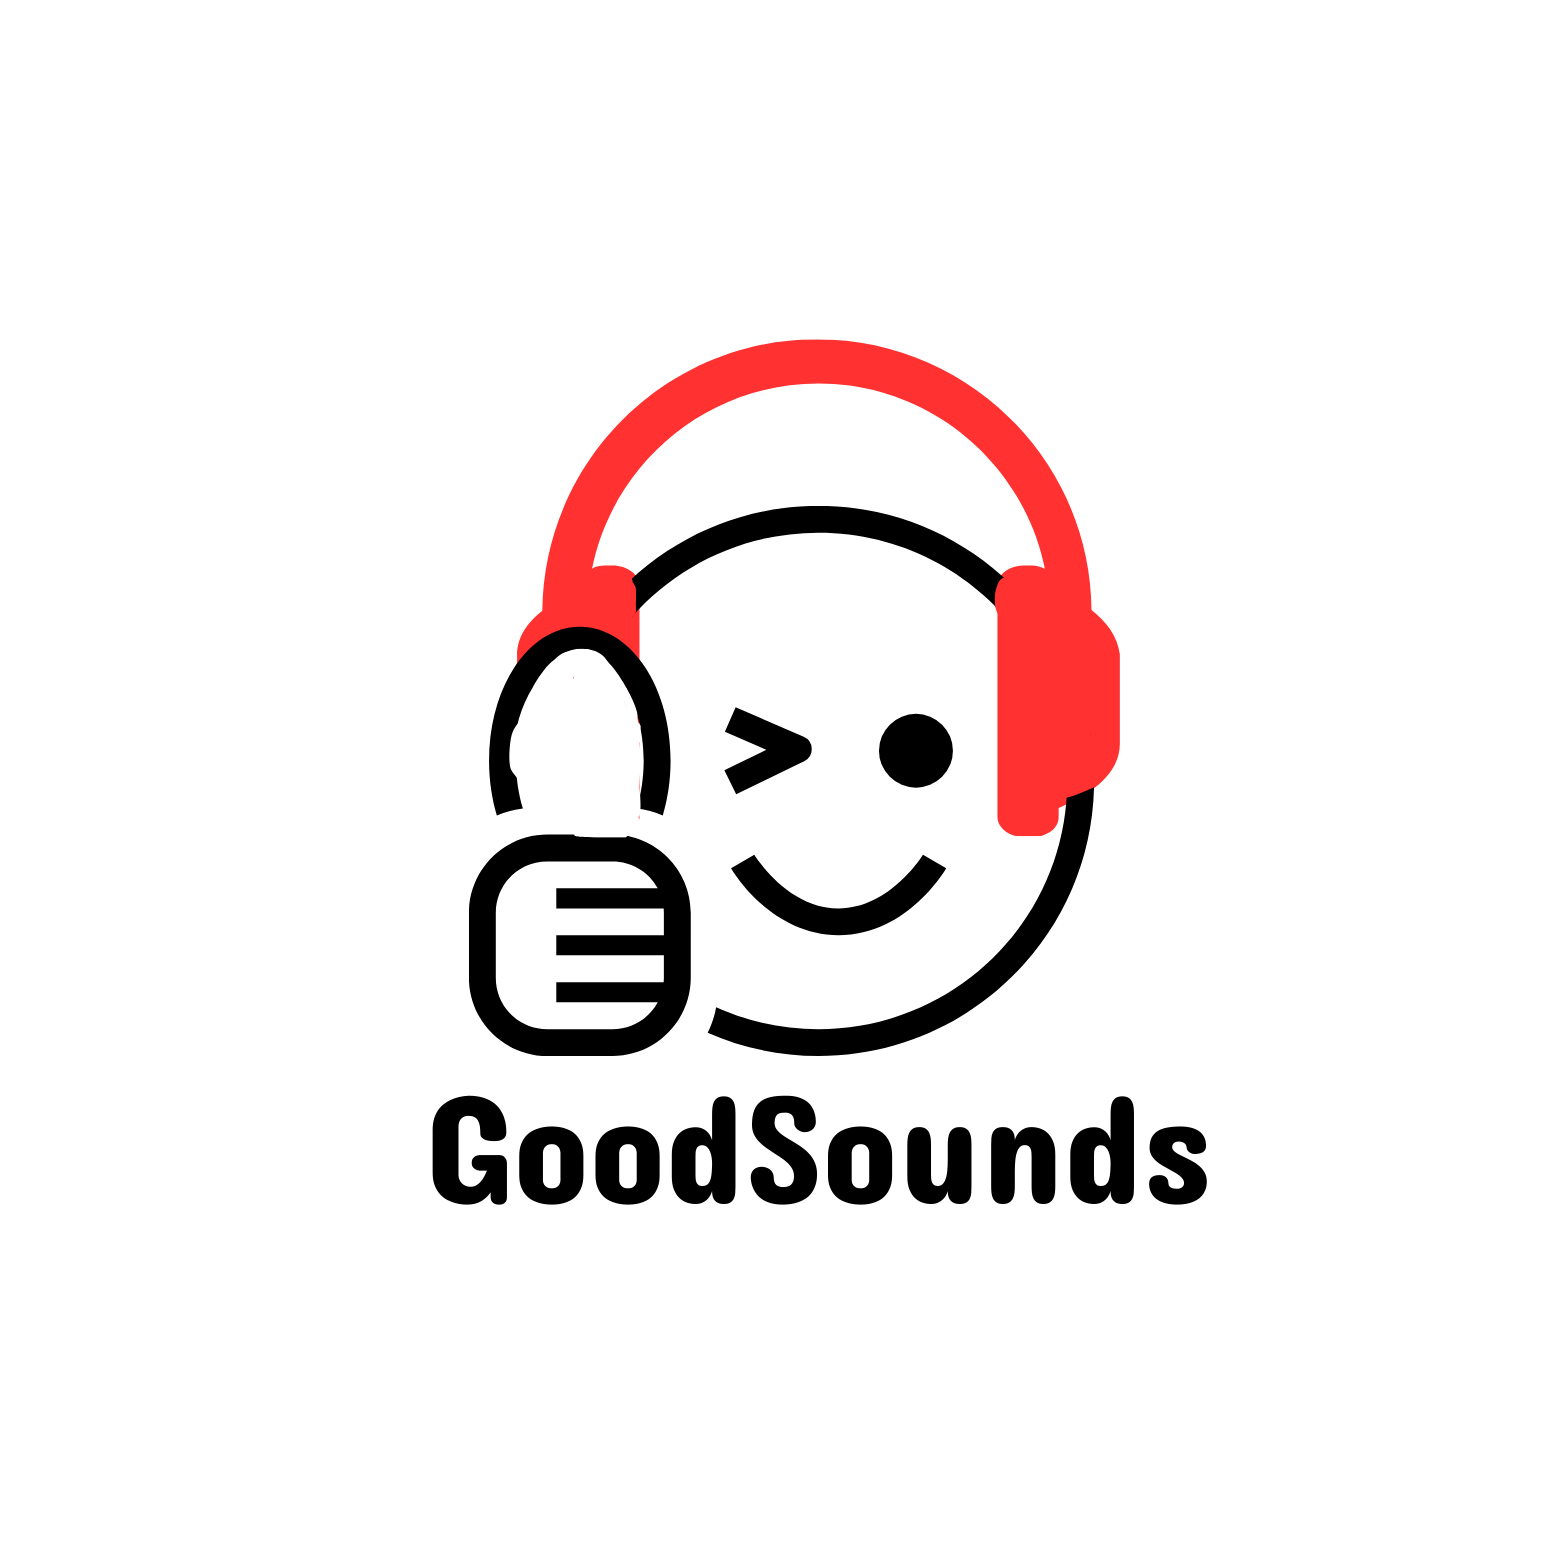
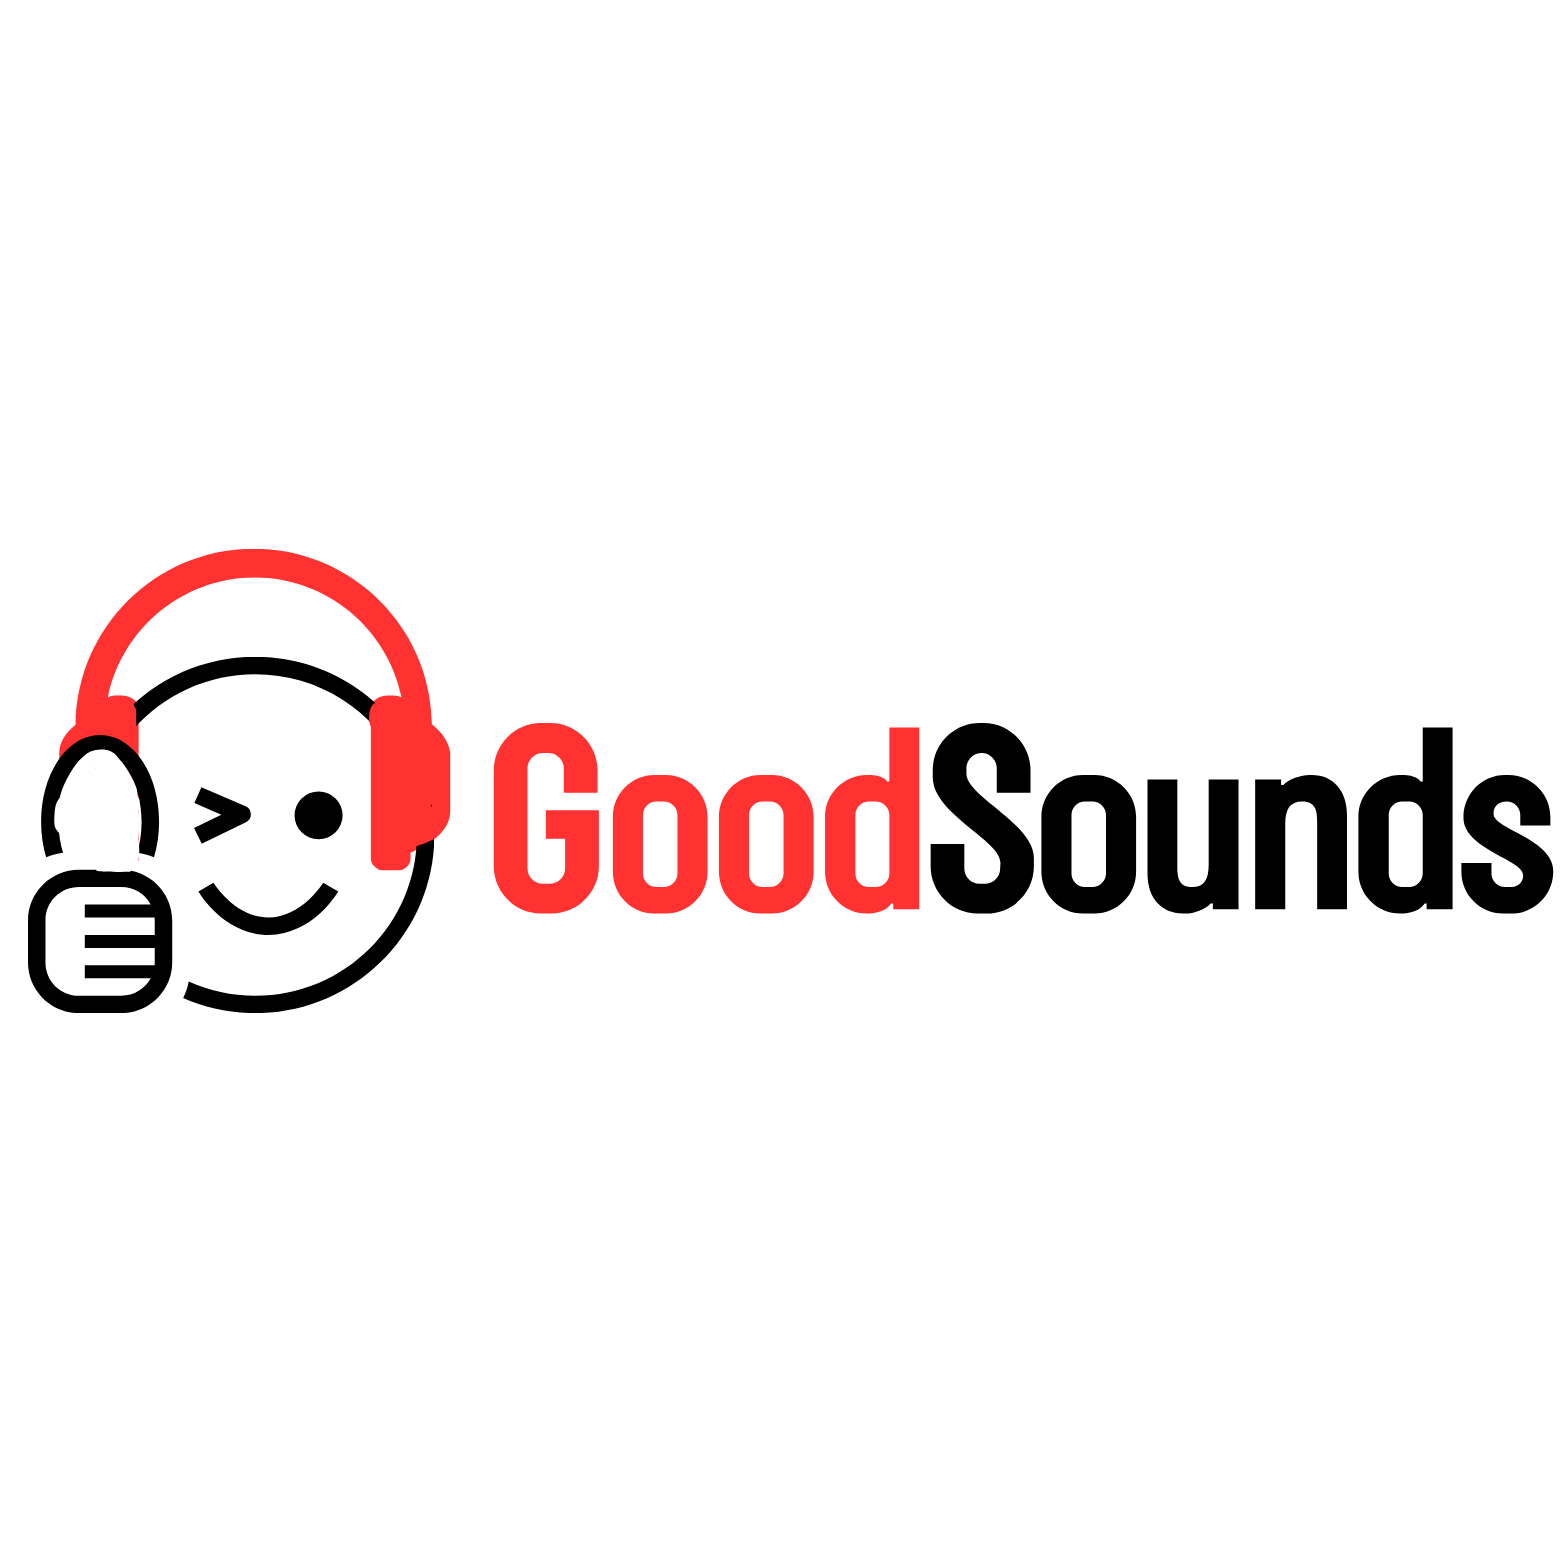
HomePage Setup + initial router setup

Changed region(s): [[0.0, 0.215, 1.0, 0.7678]]

diff --git a/goodsounds-ecommerce-app/src/components/Directory/index.tsx b/goodsounds-ecommerce-app/src/components/Directory/index.tsx
@@ -1,6 +1,7 @@
 import React from "react";
 import ShopLive from "./../../assets/shop-live.jpg";
 import ShopStudio from "./../../assets/shop-studio.jpg";
+import "./styles.scss";
 
 interface Props {
   prop2: string;
@@ -9,22 +10,28 @@ interface Props {
 const Directory = ({ prop2 }: Props) => {
   return (
     <>
-      <div>{prop2}</div>
-      <div>
-        <img
-          style={{
-            backgroundImage: `url(${ShopLive})`,
-          }}
-          alt="Shop Live Gear Image"
-        />
+      <div className="directory">
+        <div className="wrap">
+          <div
+            style={{
+              backgroundImage: `url(${ShopLive})`,
+            }}
+            className="item"
+          >
+            <a href="">Shop Live</a>
+          </div>
+        </div>
+        <div className="wrap">
+          <div
+            style={{
+              backgroundImage: `url(${ShopStudio})`,
+            }}
+            className="item"
+          >
+            <a href="">Shop Studio</a>
+          </div>
+        </div>
       </div>
-      <div>
-      <img
-          style={{
-            backgroundImage: `url(${ShopStudio})`,
-          }}
-          alt="Shop Studio Gear Image"
-        />      </div>
     </>
   );
 };

diff --git a/goodsounds-ecommerce-app/src/components/Directory/styles.scss b/goodsounds-ecommerce-app/src/components/Directory/styles.scss
@@ -1,0 +1,44 @@
+.directory {
+    height: 100%;
+
+    .wrap {
+        height: 100%;
+        width: 100%;
+
+        .item {
+            position: relative;
+            width: 50%;
+            height: 100vh;
+            float: left;
+            background-position: center;
+            background-repeat: no-repeat;
+            background-size: cover;
+
+            &::after {
+                content: '';
+                position: absolute;
+                top: 0; left: 0;
+                background: rgba(0, 0, 0, 0.5);
+                width: 100%;
+                height: 100%;
+                z-index: 1;
+            }
+            a {
+                position: absolute;
+                top: 50%; left: 50%;
+                -webkit-transform: translate(-50%, -50%);
+                -moz-transform: translate(-50%, -50%);
+                transform: translate(-50%, -50%);
+                background-color: white;
+                color: black;
+                padding: 5px;
+                font-size: 20px;
+                font-weight: 400;
+                line-height: 1;
+                text-transform: uppercase;
+                z-index: 2;
+            }
+            
+        }
+  }
+}

diff --git a/goodsounds-ecommerce-app/src/App.tsx b/goodsounds-ecommerce-app/src/App.tsx
@@ -1,16 +1,17 @@
-import React from 'react';
-import './default.scss';
-import Header from './components/Header'
-import HomePage from './pages/HomePage';
+import React from "react";
+import "./default.scss";
+import Header from "./components/Header";
+import HomePage from "./pages/HomePage";
 
 function App() {
-
   return (
-    <>
-    <Header thisProp={true}/>
-    <HomePage prop1='Look@GoodSounds' />
+    <><div className="app"></div>
+            <Header thisProp={true} />
+      <div className="main">
+        <HomePage prop1="Look@GoodSounds" />
+      </div>
     </>
-  )
+  );
 }
 
-export default App
+export default App;

diff --git a/goodsounds-ecommerce-app/src/components/Header/styles.scss b/goodsounds-ecommerce-app/src/components/Header/styles.scss
@@ -1,19 +1,19 @@
 .header {
-    height: 6.5rem;
+    height: 7.5rem;
     box-shadow: 0 2px 4px 0 rgba(0,0,0,.1);
 }
 
 .wrap {
-    max-width: 450px;
+    max-width: 1450px;
     margin: 0 auto;
 
     .logo {
         position: absolute;
         left: 50px;
-        width: 95px;
-        -webkit-transform: translateY(-18%);
-        -moz-transform: translateY(-18%);
-        transform: translateY(-18%);
+        width: 200px;
+        -webkit-transform: translateY(-32%);
+        -moz-transform: translateY(-32%);
+        transform: translateY(-32%);
 
         img { 
             width: 100%;

diff --git a/goodsounds-ecommerce-app/src/pages/HomePage/index.tsx b/goodsounds-ecommerce-app/src/pages/HomePage/index.tsx
@@ -1,18 +1,17 @@
 import React from "react";
-import './styles.scss';
+import "./styles.scss";
 import Directory from "../../components/Directory";
 
 interface Props {
   prop1: string;
 }
 
-const HomePage = ({prop1}: Props) => {
+const HomePage = ({ prop1 }: Props) => {
   return (
     <>
-      <h1>Good Sounds.</h1>
-      <br />
-      <p>If it sounds good, it's {prop1}</p>
-      <Directory prop2={"LOOK!prop2"}/>
+      <section className="home-page">
+        <Directory prop2={"LOOK!prop2"} />
+      </section>
     </>
   );
 };

diff --git a/goodsounds-ecommerce-app/src/default.scss b/goodsounds-ecommerce-app/src/default.scss
@@ -6,6 +6,9 @@ html,
 body {
   padding: 0;
   margin: 0;
+}
+
+html, body, .root, .app {
   height: 100%;
 }
 
@@ -24,10 +27,19 @@ body {
 
 a {
     text-decoration: none;
+    cursor: pointer;
 }
 
 a, a:hover {
     -webkit-transition: all .4s ease-in-out;
     -moz-transition: all .4s ease-in-out;
     transition: all .4s ease-in-out;
+}
+
+.main {
+  width: 100%;
+  height: calc(100% - 7.5rem);
+  max-width: 1450px;
+  padding: 0 50px;
+  margin: 0 auto;
 }

diff --git a/goodsounds-ecommerce-app/src/pages/HomePage/styles.scss b/goodsounds-ecommerce-app/src/pages/HomePage/styles.scss
@@ -1,0 +1,3 @@
+.home-page {
+  height: 100%;
+}
